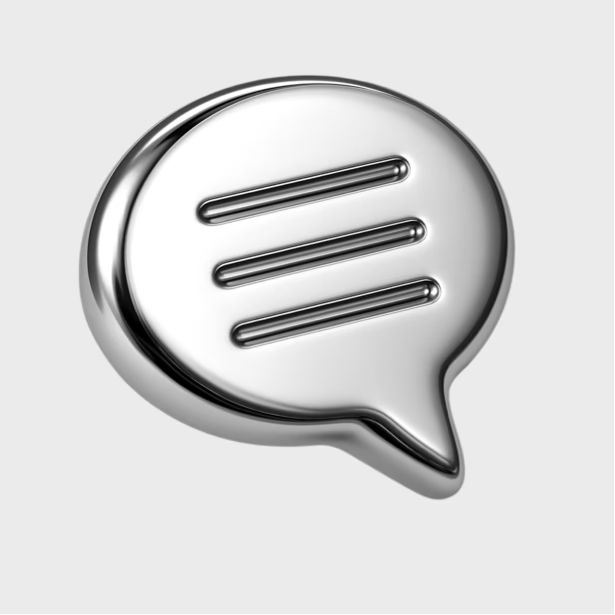
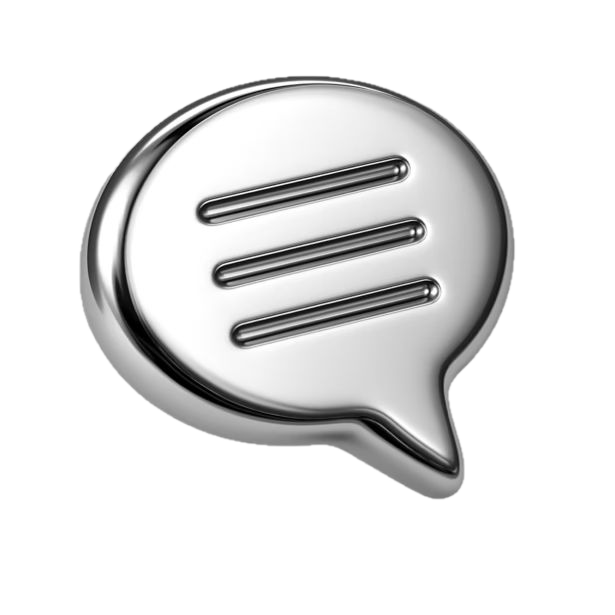
Refactor UI components and update assets for improved design consistency and functionality

diff --git a/app/marketplace/page.tsx b/app/marketplace/page.tsx
@@ -1,15 +1,17 @@
 'use client';
 
-import React from 'react';
-import { Box, Typography } from '@mui/material';
+import React, { useState } from 'react';
+import { Box, Modal, Typography } from '@mui/material';
 import Image from 'next/image';
 import { useRouter } from 'next/navigation';
+import { Lock, X } from 'lucide-react';
 import { CategoryCard } from '@/components/marketplace/category-card';
 import { LawyerCard } from '@/components/marketplace/lawyer-card';
 import { categories, lawyers } from '@/shared/constants/marketplace-data';
 
 export default function MarketplacePage() {
   const router = useRouter();
+  const [marketplaceModalOpen, setMarketplaceModalOpen] = useState(true);
 
   const handleCategoryClick = (categoryId: string) => {
     console.log('Category clicked:', categoryId);
@@ -24,25 +26,26 @@ export default function MarketplacePage() {
   };
 
   return (
-    <Box
-      sx={{
-        background: '#FFFFFF',
-        minHeight: '100vh',
-        display: 'flex',
-        flexDirection: 'column',
-        borderRadius: '16px',
-        position: 'relative',
-      }}
-    >
-      {/* Header */}
+    <>
       <Box
         sx={{
-          padding: '24px',
+          background: '#FFFFFF',
+          minHeight: '100vh',
           display: 'flex',
-          alignItems: 'center',
-          gap: '8px',
+          flexDirection: 'column',
+          borderRadius: '16px',
+          position: 'relative',
         }}
       >
+        {/* Header */}
+        <Box
+          sx={{
+            padding: '24px',
+            display: 'flex',
+            alignItems: 'center',
+            gap: '8px',
+          }}
+        >
         {/* Menu Icon */}
         <Box
           onClick={handleMenuClick}
@@ -224,6 +227,127 @@ export default function MarketplacePage() {
           </Box>
         </Box>
       </Box>
-    </Box>
+      </Box>
+
+      <Modal
+        open={marketplaceModalOpen}
+        onClose={() => setMarketplaceModalOpen(false)}
+        aria-labelledby="marketplace-unavailable-title"
+      >
+        <Box
+          sx={{
+            position: 'fixed',
+            inset: 0,
+            display: 'flex',
+            alignItems: 'center',
+            justifyContent: 'center',
+            px: '24px',
+            bgcolor: 'rgba(0, 0, 0, 0.4)',
+          }}
+        >
+          <Box
+            sx={{
+              width: '100%',
+              maxWidth: '520px',
+              borderRadius: '24px',
+              bgcolor: '#FFFFFF',
+              px: '24px',
+              pt: '24px',
+              pb: '32px',
+              position: 'relative',
+            }}
+          >
+            <Box
+              component="button"
+              onClick={() => setMarketplaceModalOpen(false)}
+              sx={{
+                position: 'absolute',
+                top: '24px',
+                right: '24px',
+                border: 'none',
+                background: 'transparent',
+                padding: 0,
+                display: 'flex',
+                alignItems: 'center',
+                justifyContent: 'center',
+                color: '#B6BBC5',
+                cursor: 'pointer',
+              }}
+            >
+              <X size={24} />
+            </Box>
+
+            <Box sx={{ display: 'flex', flexDirection: 'column', alignItems: 'center' }}>
+              <Box
+                sx={{
+                  width: '64px',
+                  height: '64px',
+                  borderRadius: '16px',
+                  bgcolor: '#EEF2FD',
+                  display: 'flex',
+                  alignItems: 'center',
+                  justifyContent: 'center',
+                  color: '#8AA6F4',
+                  mb: '20px',
+                }}
+              >
+                <Lock size={28} />
+              </Box>
+
+              <Typography
+                id="marketplace-unavailable-title"
+                sx={{
+                  fontFamily: 'Inter, sans-serif',
+                  fontSize: '16px',
+                  fontWeight: 600,
+                  lineHeight: '1.2',
+                  color: '#212121',
+                  textAlign: 'center',
+                }}
+              >
+                Маркетплейс пока недоступен
+              </Typography>
+
+              <Typography
+                sx={{
+                  mt: '12px',
+                  fontFamily: 'Inter, sans-serif',
+                  fontSize: '10px',
+                  fontWeight: 400,
+                  lineHeight: '1.3',
+                  color: '#8E939D',
+                  textAlign: 'center',
+                  maxWidth: '340px',
+                }}
+              >
+                Следите за обновлениями, совсем скоро здесь появится новый раздел
+              </Typography>
+
+              <Box
+                component="button"
+                onClick={() => router.push('/home-new')}
+                sx={{
+                  mt: '28px',
+                  width: '100%',
+                  maxWidth: '420px',
+                  height: '40px',
+                  borderRadius: '16px',
+                  border: 'none',
+                  bgcolor: '#F3F5F9',
+                  color: '#8AA6F4',
+                  fontFamily: 'Inter, sans-serif',
+                  fontSize: '12px',
+                  fontWeight: 600,
+                  lineHeight: '1.3',
+                  cursor: 'pointer',
+                }}
+              >
+                Вернуться назад
+              </Box>
+            </Box>
+          </Box>
+        </Box>
+      </Modal>
+    </>
   );
 }

diff --git a/app/docs/legal-analysis/page.tsx b/app/docs/legal-analysis/page.tsx
@@ -70,20 +70,20 @@ export default function LegalAnalysisPage() {
           </CardHeader>
         </Card>
 
-        <Card className="bg-white">
-          <CardHeader className="pb-2">
-            <CardTitle className="text-[20px] text-gray-900">Что входит в отчет:</CardTitle>
+        <Card className="rounded-[24px] border-0 bg-[#F7F8FA] shadow-none">
+          <CardHeader className="pb-1">
+            <CardTitle className="text-[16px] font-semibold leading-[1.2] text-[#212121]">Что входит в отчет:</CardTitle>
           </CardHeader>
-          <CardContent className={isSmallScreen ? 'flex flex-col gap-3' : 'grid grid-cols-3 gap-3'}>
+          <CardContent className="grid grid-cols-3 gap-[10px] pt-[6px]">
             {featureItems.map(({ title, icon: Icon }) => (
               <div
                 key={title}
-                className="rounded-[28px] bg-[#F3F9F8] p-4 flex flex-col items-start gap-3"
+                className="flex flex-col items-start gap-[8px]"
               >
-                <div className="h-12 w-12 rounded-2xl bg-[#EEF2FD] flex items-center justify-center">
-                  <Icon className="h-6 w-6 text-[#8AA6F4]" />
+                <div className="h-[48px] w-[48px] rounded-[14px] bg-[#EEF2FD] flex items-center justify-center">
+                  <Icon className="h-[20px] w-[20px] text-[#8AA6F4]" />
                 </div>
-                <p className="text-[13px] leading-[140%] text-gray-700 text-left">{title}</p>
+                <p className="text-[10px] font-normal leading-[1.3] text-[#8E939D] text-left">{title}</p>
               </div>
             ))}
           </CardContent>

diff --git a/app/home-new/page.tsx b/app/home-new/page.tsx
@@ -7,8 +7,8 @@ import { CreatorsCard } from '@/components/home/creators-card';
 import { PublicOfferCard } from '@/components/home/public-offer-card';
 import { cn } from '@/lib/utils';
 
-const hammerImage = '/assets/hammer.png';
-const messageImage = '/assets/message-bubble.svg';
+const hammerImage = '/assets/hammer-figma.png';
+const messageImage = '/assets/message-bubble-figma.png';
 const unionIcon = '/assets/union-white.svg';
 
 const iconArrow = '/assets/icon-arrow-circle.svg';
@@ -142,11 +142,10 @@ export default function HomePage() {
                   className="absolute right-[-10px] top-[-15px] w-[80px] h-[80px] pointer-events-none"
                   data-name="Сообщение"
                   data-node-id="426:9781"
-                  style={{ mixBlendMode: 'multiply', opacity: 0.9 }}
                 >
                   <img
                     alt=""
-                    className="w-full h-full object-contain"
+                    className="w-full h-full object-contain grayscale"
                     src={messageImage}
                   />
                 </div>

diff --git a/app/bonus/premium-access/page.tsx b/app/bonus/premium-access/page.tsx
@@ -108,11 +108,11 @@ export default function PremiumAccessPage() {
               Мы хотим, чтобы юридическая помощь была доступна каждому. Серверы и команда стоят денег, но есть ценность, которую мы любим — это люди, которым мы помогаем. Добавь Твоего Друга Юриста в чат Telegram и получи бесплатный доступ к консультациям на год!
             </p>
           </div>
-          <div className="absolute right-[-10px] top-[-18px] w-[220px] h-[225px]">
+          <div className="pointer-events-none absolute right-[-124px] top-1/2 -translate-y-1/2 w-[250px] h-[250px]">
             <img
               src="/images/star-premium.png"
               alt=""
-              className="w-[179px] h-[186px] transform rotate-[-165deg] scale-y-[-1]"
+              className="w-full h-full object-contain grayscale transform rotate-[-165deg] scale-y-[-1]"
             />
           </div>
         </section>

diff --git a/app/profile/page.tsx b/app/profile/page.tsx
@@ -150,8 +150,8 @@ export default function ProfilePage() {
         {/* Top Section */}
         <div className="flex gap-[12px]">
           {/* Subscription Card */}
-          <div 
-            className="flex flex-1 flex-col gap-[12px] h-[149px] rounded-[16px] p-[16px]" 
+          <div
+            className="flex flex-1 flex-col gap-[12px] h-[149px] rounded-[16px] p-[16px]"
             style={{ background: 'linear-gradient(129.67deg, #6989E3 12.3%, #8AA6F4 64.82%)' }}
           >
             <div className="flex flex-col gap-[4px] w-full">
@@ -191,7 +191,7 @@ export default function ProfilePage() {
               <div className="h-[32px] w-[32px]">
                 <img src="/images/profile/consultation-icon.svg" alt="" className="h-full w-full" />
               </div>
-              <div className="flex flex-col gap-[8px] w-full">
+              <div className="flex flex-col gap-[8px] w-full text-left">
                 <h3 className="text-[16px] font-semibold leading-[1.2] text-[#212121]">
                   Консультация
                 </h3>

diff --git a/src/widgets/footer-menu/footer-menu.tsx b/src/widgets/footer-menu/footer-menu.tsx
@@ -11,7 +11,7 @@ const MenuIcon: React.FC<{ isActive: boolean }> = ({ isActive }) => (
       width="40"
       height="40"
       rx="20"
-      fill={isActive ? '#262627' : '#F3F5F9'}
+      fill={isActive ? '#8AA6F4' : '#F3F5F9'}
       style={{ transition: 'fill 0.3s ease-in-out' }}
     />
     <path
@@ -126,7 +126,7 @@ export const FooterMenu: React.FC = () => {
   const pathname = usePathname();
 
   return (
-    <nav className="fixed bottom-8 left-0 right-0 flex justify-center px-6">
+    <nav className="fixed bottom-8 left-0 right-0 z-50 flex justify-center px-6">
       <div className="bg-white flex items-center justify-between px-3 rounded-[96px] shadow-[0px_2px_16px_0px_rgba(0,0,0,0.06)] h-16 max-w-[390px] w-full">
         {menuItems.map((item) => {
           const isActive = pathname === item.route || (item.id === 'home' && pathname === '/');

diff --git a/app/docs/send-request/page.tsx b/app/docs/send-request/page.tsx
@@ -153,7 +153,7 @@ export default function SendRequestPage() {
               disabled={isSubmitting}
             >
               {isSubmitting ? 'Отправляем…' : 'Отправить запрос'}
-              {!isSubmitting && <ArrowUpRight className="h-5 w-5" />}
+              {!isSubmitting && <ArrowUpRight className="h-[8px] w-[8px]" />}
             </Button>
           </form>
         </section>
@@ -164,7 +164,7 @@ export default function SendRequestPage() {
             className="gap-2 px-0 text-gray-500 hover:bg-transparent"
             onClick={() => router.push('/docs')}
           >
-            <ArrowLeft className="h-4 w-4" />
+            <ArrowLeft className="h-[8px] w-[8px]" />
             Вернуться назад
           </Button>
         </div>

diff --git a/src/components/home/feature-card.tsx b/src/components/home/feature-card.tsx
@@ -50,7 +50,11 @@ export function FeatureCard({
           data-name="Молоток"
           data-node-id={overlayNodeId}
         >
-          <img alt="" className="absolute h-[127.87%] left-[-5.2%] max-w-none top-[-12.49%] w-[111.01%]" src={overlayImage} />
+          <img
+            alt=""
+            className="absolute h-[127.87%] left-[-5.2%] max-w-none top-[-12.49%] w-[111.01%] grayscale"
+            src={overlayImage}
+          />
         </div>
       )}
       <div className="relative w-[32px] h-[32px] flex-shrink-0" data-name="Иконка" data-node-id={iconNodeId}>

diff --git a/src/shared/constants/marketplace-data.ts b/src/shared/constants/marketplace-data.ts
@@ -5,13 +5,13 @@ export const categories: Category[] = [
     id: 'svo',
     label: 'СВО',
     gradient: 'linear-gradient(180deg, #BCCEFF 0%, #E1E9FF 100%)',
-    icon: '/images/marketplace/svo-soldier.png',
+    icon: '/images/marketplace/svo-image.png',
   },
   {
     id: 'divorce',
     label: 'Развод',
     gradient: 'linear-gradient(180deg, #FFD4E4 0%, #FFE4EE 100%)',
-    icon: '/images/marketplace/divorce-person.png',
+    icon: '/images/marketplace/divorce-image.png',
   },
   {
     id: 'court',

diff --git a/app/docs/contact-specialist/page.tsx b/app/docs/contact-specialist/page.tsx
@@ -93,7 +93,7 @@ export default function ContactSpecialistPage() {
       </div>
 
       <div className="flex justify-center items-center gap-[8px]">
-        <ArrowLeft className="w-[11px] h-[10px] text-[#8e939d]" />
+        <ArrowLeft className="w-[8px] h-[8px] text-[#8e939d]" />
         <button
           onClick={() => router.push('/docs')}
           className="text-[12px] font-medium text-[#8e939d] leading-[1.2]"

diff --git a/src/entities/documents/ui/document-card.tsx b/src/entities/documents/ui/document-card.tsx
@@ -39,7 +39,7 @@ export const DocumentCard: React.FC<DocumentCardProps> = ({
                 </div>
 
                 {showIllustration && (
-                    <div className="absolute bottom-0 right-0">
+                    <div className="absolute -bottom-4 right-0">
                         <Image
                             className='svg-document'
                             src="/document.svg"
